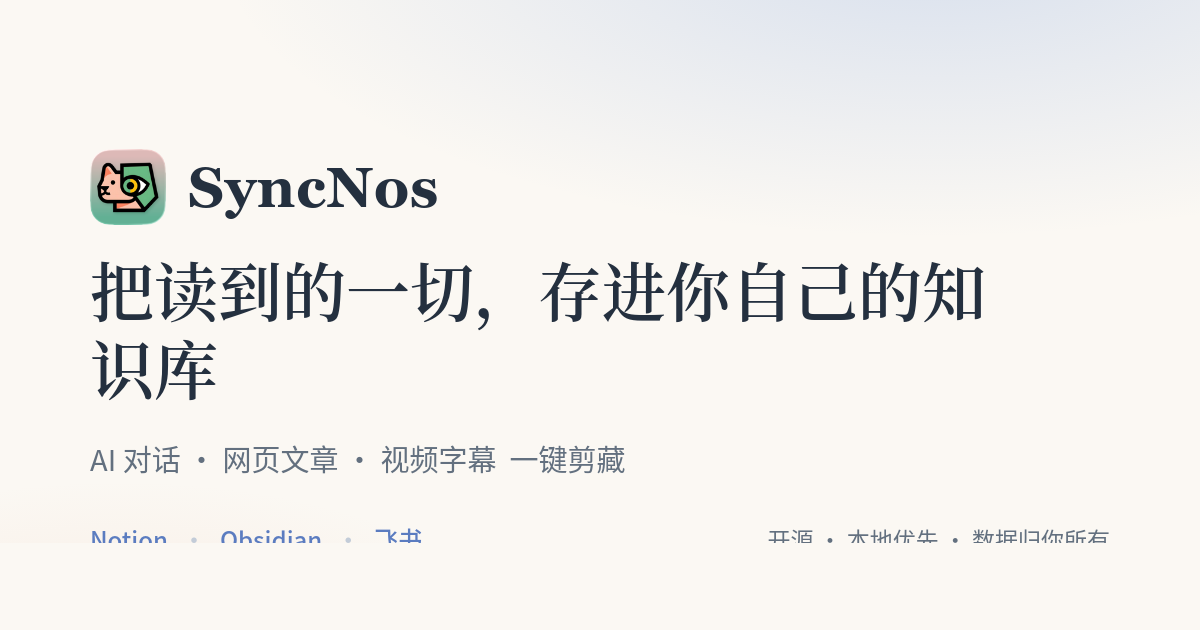
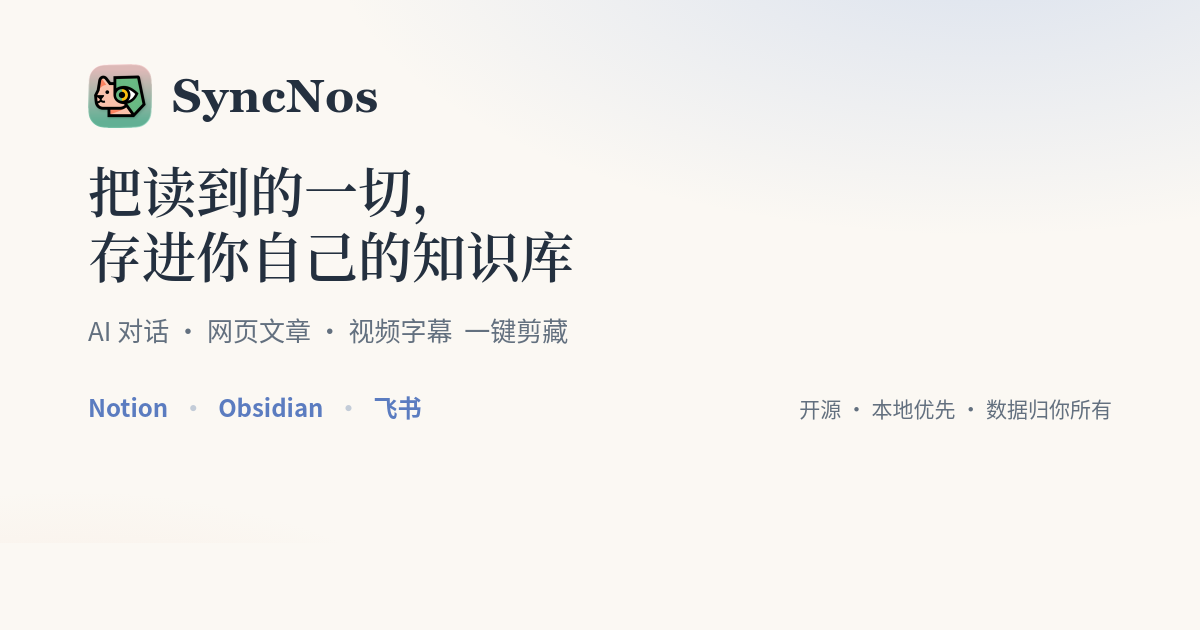
feat(meta): 更新页面元数据和社交分享信息

diff --git a/index.html b/index.html
@@ -29,6 +29,30 @@
                 } catch (e) {}
             })();
         </script>
+        <link rel="canonical" href="https://syncnos.github.io/" />
+        <meta name="robots" content="index, follow, max-image-preview:large, max-snippet:-1, max-video-preview:-1" />
+        <meta name="author" content="SyncNos" />
+        <meta name="keywords" content="SyncNos, WebClipper, 网页剪藏, AI 对话保存, Notion 剪藏, Obsidian, 飞书, ChatGPT 导出, 开源, 本地优先" />
+        <meta name="theme-color" content="#fbf8f3" media="(prefers-color-scheme: light)" />
+        <meta name="theme-color" content="#0f141c" media="(prefers-color-scheme: dark)" />
+        <meta name="color-scheme" content="light dark" />
+        <meta property="og:type" content="website" />
+        <meta property="og:site_name" content="SyncNos" />
+        <meta property="og:title" content="SyncNos · 把读到的一切，存进你自己的知识库" />
+        <meta property="og:description" content="SyncNos WebClipper：把 AI 对话、网页文章、视频字幕一键存入 Notion、Obsidian 或飞书。开源、本地优先，数据始终归你所有。" />
+        <meta property="og:url" content="https://syncnos.github.io/" />
+        <meta property="og:image" content="https://syncnos.github.io/assets/og-image.png" />
+        <meta property="og:image:width" content="1200" />
+        <meta property="og:image:height" content="630" />
+        <meta property="og:image:alt" content="SyncNos WebClipper" />
+        <meta property="og:locale" content="zh_CN" />
+        <meta property="og:locale:alternate" content="en_US" />
+        <meta name="twitter:card" content="summary_large_image" />
+        <meta name="twitter:title" content="SyncNos · 把读到的一切，存进你自己的知识库" />
+        <meta name="twitter:description" content="SyncNos WebClipper：把 AI 对话、网页文章、视频字幕一键存入 Notion、Obsidian 或飞书。开源、本地优先，数据始终归你所有。" />
+        <meta name="twitter:image" content="https://syncnos.github.io/assets/og-image.png" />
+        <link rel="sitemap" type="application/xml" href="/sitemap.xml" />
+        <script type="application/ld+json">{"@context":"https://schema.org","@graph":[{"@type":"WebSite","@id":"https://syncnos.github.io/#website","url":"https://syncnos.github.io/","name":"SyncNos","description":"SyncNos WebClipper：把 AI 对话、网页文章、视频字幕一键存入 Notion、Obsidian 或飞书。开源、本地优先，数据始终归你所有。","inLanguage":"zh-CN"},{"@type":"Organization","@id":"https://syncnos.github.io/#org","name":"SyncNos","url":"https://syncnos.github.io/","logo":"https://syncnos.github.io/assets/icon-128.png","sameAs":["https://github.com/SyncNos/SyncNos-Webclipper","https://linux.do/t/topic/1635410"]},{"@type":"SoftwareApplication","@id":"https://syncnos.github.io/#app","name":"SyncNos WebClipper","applicationCategory":"BrowserApplication","operatingSystem":"Chrome, Microsoft Edge, Firefox","url":"https://syncnos.github.io/","description":"SyncNos WebClipper：把 AI 对话、网页文章、视频字幕一键存入 Notion、Obsidian 或飞书。开源、本地优先，数据始终归你所有。","image":"https://syncnos.github.io/assets/og-image.png","author":{"@id":"https://syncnos.github.io/#org"},"offers":{"@type":"Offer","price":"0","priceCurrency":"USD"},"isAccessibleForFree":true,"license":"https://www.gnu.org/licenses/agpl-3.0.html","downloadUrl":"https://chromewebstore.google.com/detail/syncnos-webclipper/hmgjflllphdffeocddjjcfllifhejpok","featureList":["保存 11 个平台的 AI 对话","提取网页正文（含微信公众号、小红书）","抓取 YouTube / Bilibili 视频字幕","同步到 Notion / Obsidian / 飞书","导出 Markdown 或 Zip"],"sameAs":["https://chromewebstore.google.com/detail/syncnos-webclipper/hmgjflllphdffeocddjjcfllifhejpok","https://microsoftedge.microsoft.com/addons/detail/syncnosaiweb-clipper/ijkpghlfmkbjcgafapjcjahaikmnjncl","https://addons.mozilla.org/firefox/addon/syncnos-webclipper/","https://github.com/SyncNos/SyncNos-Webclipper"]},{"@type":"FAQPage","@id":"https://syncnos.github.io/#faq","mainEntity":[{"@type":"Question","name":"SyncNos 是什么？","acceptedAnswer":{"@type":"Answer","text":"SyncNos 是一款开源、本地优先的浏览器扩展（WebClipper），把 AI 对话、网页文章和视频字幕一键剪藏并同步到 Notion、Obsidian 或飞书。"}},{"@type":"Question","name":"支持哪些浏览器？","acceptedAnswer":{"@type":"Answer","text":"支持 Chrome、Microsoft Edge 和 Firefox。"}},{"@type":"Question","name":"能保存哪些内容？","acceptedAnswer":{"@type":"Answer","text":"可以保存 11 个平台的 AI 对话（ChatGPT、Claude、Gemini、DeepSeek、Kimi、豆包、元宝、Poe、Notion AI、z.ai）与 Google AI Studio；网页正文（含微信公众号、小红书）；以及 YouTube / Bilibili 的视频字幕。"}},{"@type":"Question","name":"免费吗？数据安全吗？","acceptedAnswer":{"@type":"Answer","text":"完全免费且开源。SyncNos 本地优先，数据不经过第三方服务器；Obsidian 通过本地 REST API 直写，数据始终归你所有。"}}]}]}</script>
     </head>
     <body id="top">
         <div class="masthead">